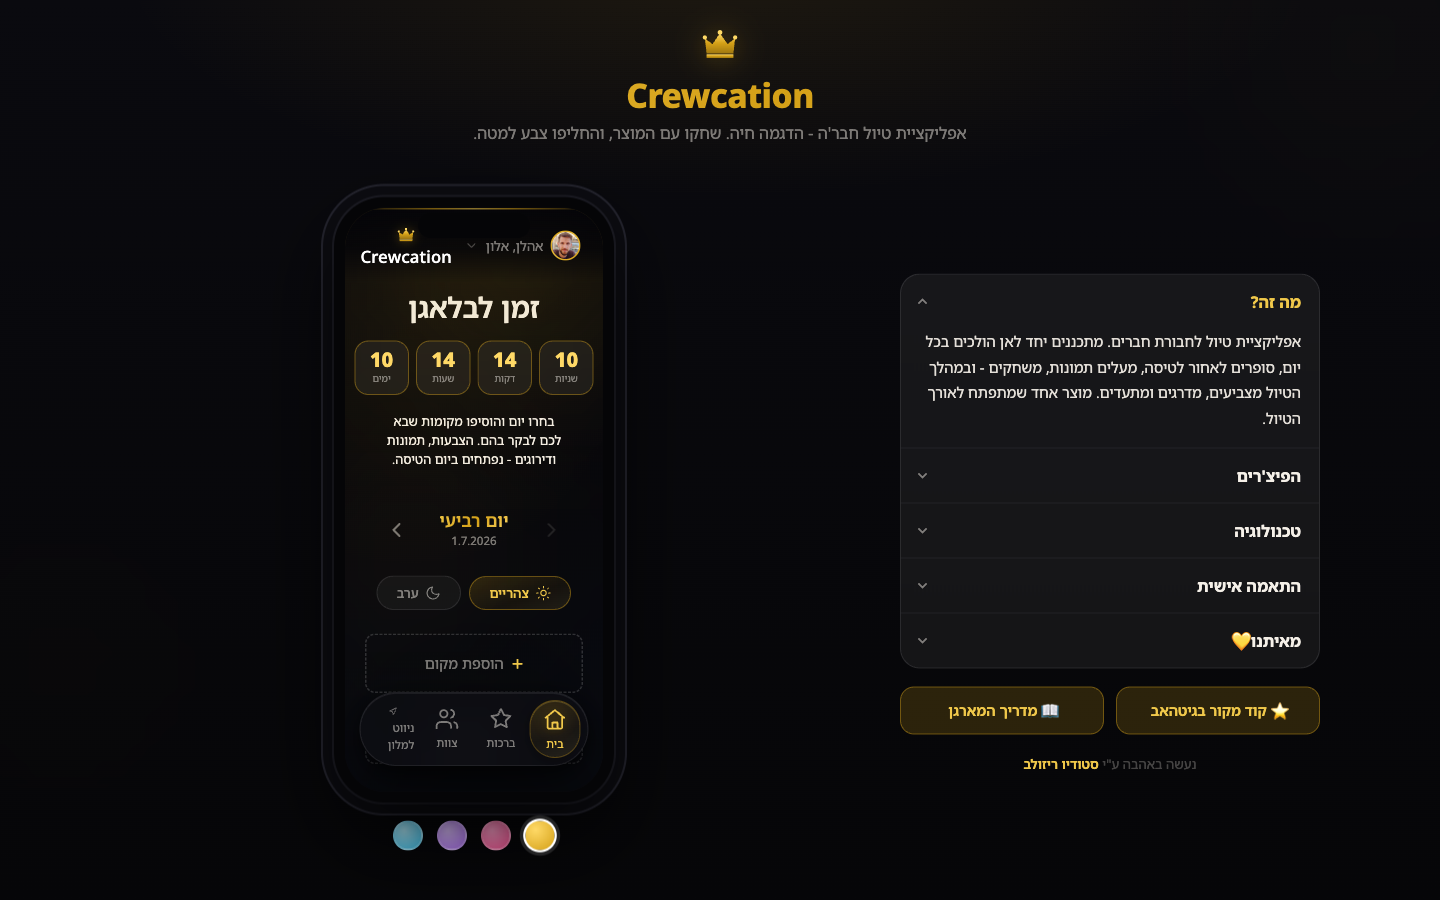
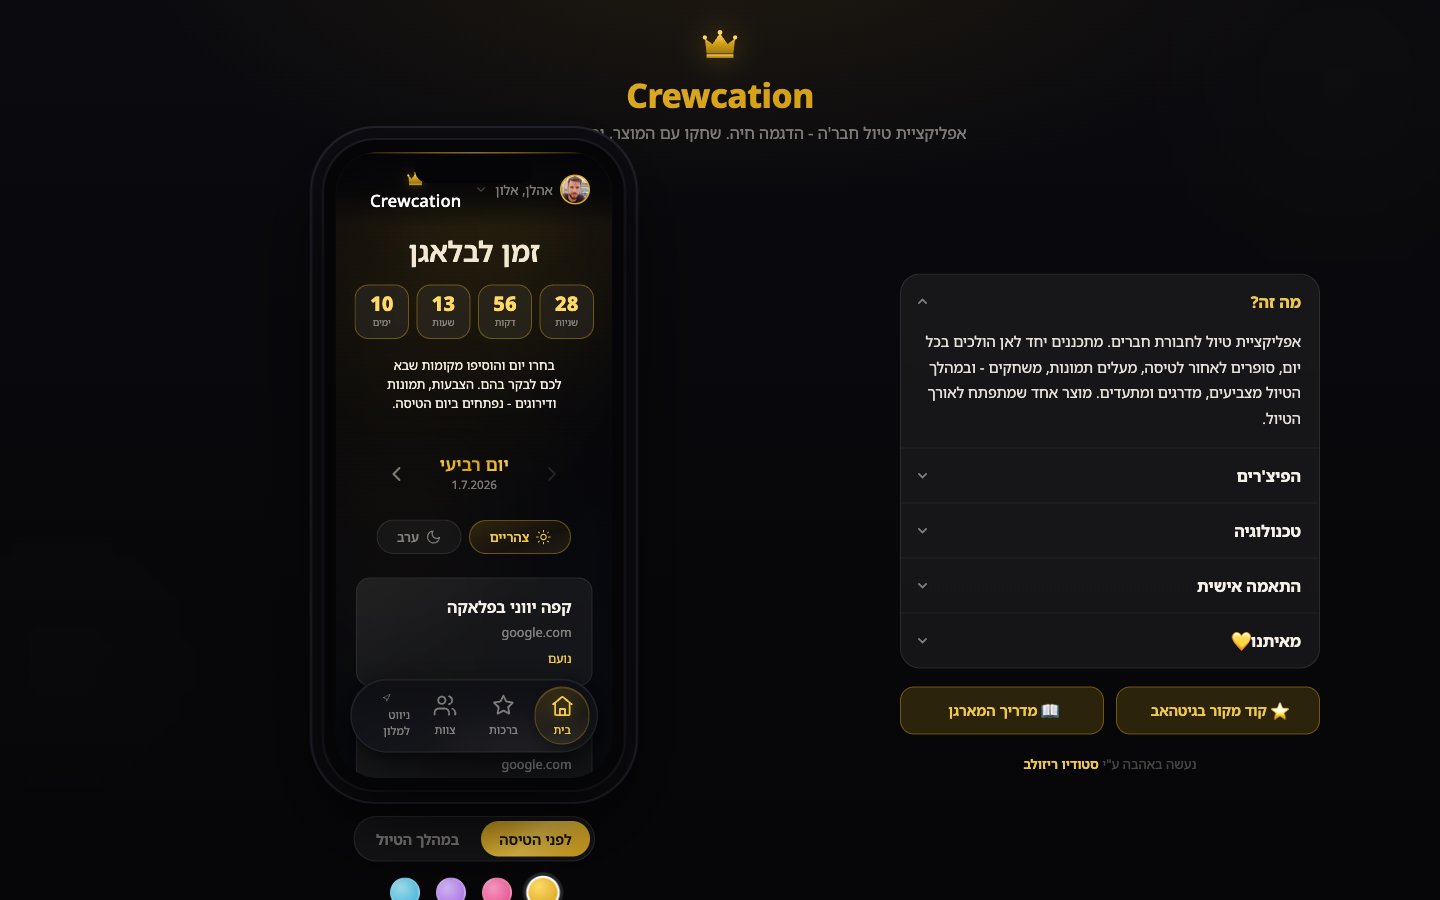
דמו: מתג לפני/במהלך הטיול + חסימת פעולות עם מודל + טלפון רחב
- מתג שלב בעמוד הדמו: "לפני הטיסה" (איסוף) / "במהלך הטיול" (הצבעות+גלריה+
  דירוגים פתוחים) - דרך demo_sim_day() ב-?phase, נשמר בסשן וחל על כל העמודים
- demo_guard.php: כל פעולת כתיבה בדמו מקפיצה מודל "אני רק דמו, אל תגזימו" (חוץ
  ממשחקים ששקטים). מיירט fetch POST ל-api
- demo_seed(): מקומות + תמונות גלריה לדמו שמצב "במהלך" ייראה חי
- טלפון רחב יותר (גובה דינמי), מרווח לנקודות, מתג שלב מתחת לדמו
- תיקון schema: ratings עם param + UNIQUE נכון (תיקן 500 ב-rate.php)

diff --git a/assets/style.css b/assets/style.css
@@ -106,6 +106,20 @@
 .theme-dot.t-purple { background: radial-gradient(circle at 35% 30%, #D9BBFA, #A76CE9); }
 .theme-dot.t-sky    { background: radial-gradient(circle at 35% 30%, #A6E2F2, #38B6DE); }
 
+/* מודל "אני רק דמו" */
+.demo-modal { position: fixed; inset: 0; z-index: 1000; display: none; align-items: center; justify-content: center;
+    background: rgba(4,4,8,0.72); backdrop-filter: blur(6px); padding: 24px; }
+.demo-modal.show { display: flex; animation: dm-fade .18s ease; }
+@keyframes dm-fade { from { opacity: 0; } to { opacity: 1; } }
+.demo-modal-card { background: var(--bg-elevated); border: 1px solid var(--border-gold); border-radius: var(--radius-xl);
+    padding: 26px 24px; max-width: 320px; text-align: center; box-shadow: var(--glow-gold); animation: dm-pop .22s cubic-bezier(.2,.8,.2,1); }
+@keyframes dm-pop { from { transform: scale(.9); opacity: 0; } to { transform: scale(1); opacity: 1; } }
+.demo-modal-card .dm-emoji { font-size: 2.4rem; }
+.demo-modal-card .dm-title { font-size: 1.25rem; font-weight: 800; margin: 8px 0 6px; color: var(--gold-light); }
+.demo-modal-card .dm-sub { font-size: .92rem; color: var(--text); opacity: .85; line-height: 1.6; margin: 0 0 18px; }
+.demo-modal-card .dm-btn { background: var(--grad-gold); color: #1a1505; border: 0; border-radius: var(--radius-pill);
+    padding: 11px 30px; font-weight: 700; font-size: .95rem; cursor: pointer; font-family: inherit; }
+
 /* מצב דמו: מסתירים כפתורי העלאת תמונות (חסום גם בשרת) */
 body.is-demo #hypeAdd,
 body.is-demo [id^="gal-add-"],

diff --git a/demo_showcase.php b/demo_showcase.php
@@ -36,20 +36,25 @@ declare(strict_types=1);
             flex: 1; min-height: 0; display: grid; grid-template-columns: minmax(300px, 420px) 1fr;
             gap: clamp(28px, 5vw, 72px); align-items: center; max-width: 1200px; width: 100%; margin: 0 auto;
         }
-        .pg-stage { display: flex; flex-direction: column; align-items: center; gap: 18px; min-height: 0; height: 100%; justify-content: center; }
+        .pg-stage { display: flex; flex-direction: column; align-items: center; gap: 26px; min-height: 0; height: 100%; justify-content: center; }
 
         /* מוקאפ טלפון - רחב ככל שמתאפשר בגובה הזמין */
         .phone {
-            height: min(86%, 760px); aspect-ratio: 390 / 844; position: relative;
-            background: #050507; border-radius: 50px; padding: 11px;
-            box-shadow: 0 36px 80px rgba(0,0,0,.7), 0 0 0 2px #1c1c24, 0 0 0 11px #0c0c11, 0 0 0 13px #24242e;
+            height: min(880px, calc(100vh - 250px)); aspect-ratio: 390 / 844; position: relative;
+            background: #050507; border-radius: 52px; padding: 12px;
+            box-shadow: 0 36px 80px rgba(0,0,0,.7), 0 0 0 2px #1c1c24, 0 0 0 12px #0c0c11, 0 0 0 14px #24242e;
         }
-        .phone::before { content: ''; position: absolute; top: 16px; left: 50%; transform: translateX(-50%);
-            width: 112px; height: 25px; background: #050507; border-radius: 16px; z-index: 3; }
-        .phone iframe { width: 100%; height: 100%; border: 0; border-radius: 40px; background: #06060a; display: block; }
+        .phone::before { content: ''; position: absolute; top: 17px; left: 50%; transform: translateX(-50%);
+            width: 118px; height: 26px; background: #050507; border-radius: 16px; z-index: 3; }
+        .phone iframe { width: 100%; height: 100%; border: 0; border-radius: 42px; background: #06060a; display: block; }
 
-        /* נקודות הצבע - מתחת לדמו */
-        .swatches { display: flex; gap: 14px; }
+        /* בקרות מתחת לדמו */
+        .stage-controls { display: flex; flex-direction: column; align-items: center; gap: 16px; }
+        .phase-toggle { display: inline-flex; background: var(--card); border: 1px solid var(--border); border-radius: var(--radius-pill); padding: 4px; gap: 4px; }
+        .phase-btn { border: 0; background: transparent; color: var(--text-muted); font-family: inherit; font-weight: 600;
+            font-size: .9rem; padding: 8px 18px; border-radius: var(--radius-pill); cursor: pointer; transition: all .15s; white-space: nowrap; }
+        .phase-btn.active { background: var(--grad-gold); color: #1a1505; }
+        .swatches { display: flex; gap: 16px; }
 
         /* פאנל - בשפת המוצר */
         .pg-panel { display: flex; flex-direction: column; gap: 18px; }
@@ -143,13 +148,19 @@ declare(strict_types=1);
 
             <div class="pg-stage">
                 <div class="phone">
-                    <iframe id="appFrame" src="app.php" title="<?= htmlspecialchars(APP_NAME) ?>"></iframe>
+                    <iframe id="appFrame" src="app.php?phase=before" title="<?= htmlspecialchars(APP_NAME) ?>"></iframe>
                 </div>
-                <div class="swatches" id="themePicker">
-                    <button class="theme-dot t-gold active"   data-theme="gold"   aria-label="זהב"></button>
-                    <button class="theme-dot t-pink"          data-theme="pink"   aria-label="ורוד"></button>
-                    <button class="theme-dot t-purple"        data-theme="purple" aria-label="סגול"></button>
-                    <button class="theme-dot t-sky"           data-theme="sky"    aria-label="תכלת"></button>
+                <div class="stage-controls">
+                    <div class="phase-toggle" id="phaseToggle">
+                        <button class="phase-btn active" data-phase="before" type="button">לפני הטיסה</button>
+                        <button class="phase-btn" data-phase="during" type="button">במהלך הטיול</button>
+                    </div>
+                    <div class="swatches" id="themePicker">
+                        <button class="theme-dot t-gold active"   data-theme="gold"   aria-label="זהב"></button>
+                        <button class="theme-dot t-pink"          data-theme="pink"   aria-label="ורוד"></button>
+                        <button class="theme-dot t-purple"        data-theme="purple" aria-label="סגול"></button>
+                        <button class="theme-dot t-sky"           data-theme="sky"    aria-label="תכלת"></button>
+                    </div>
                 </div>
             </div>
         </div>
@@ -188,6 +199,15 @@ declare(strict_types=1);
             paintFrame(localStorage.getItem('cw-theme') || 'gold');
         });
         pick.addEventListener('click', function (e) { var d = e.target.closest('.theme-dot'); if (d) apply(d.dataset.theme); });
+
+        // מתג שלב: לפני הטיסה / במהלך הטיול - טוען מחדש את האייפריים
+        var toggle = document.getElementById('phaseToggle');
+        toggle.addEventListener('click', function (e) {
+            var b = e.target.closest('.phase-btn');
+            if (!b) return;
+            toggle.querySelectorAll('.phase-btn').forEach(function (x) { x.classList.toggle('active', x === b); });
+            frame.src = 'app.php?phase=' + b.dataset.phase;
+        });
 
         // אקורדיון בלעדי - פתיחת אחד סוגרת את השאר (גיבוי ל-name)
         var accs = document.querySelectorAll('.panel-card details');

diff --git a/auth.php b/auth.php
@@ -27,6 +27,42 @@ function uploads_blocked(): bool {
     return demo_mode();
 }
 
+// בדמו: מתג שלב (לפני הטיסה / במהלך הטיול) דרך ?phase או ?simday, נשמר בסשן.
+// מחזיר את "יום הטיול" המדומה: 0 = לפני, 3 = במהלך. null אם לא בדמו.
+function demo_sim_day(): ?int {
+    if (!demo_mode()) return null;
+    if (isset($_GET['phase'])) {
+        $_SESSION['demo_phase'] = ($_GET['phase'] === 'during') ? 'during' : 'before';
+    } elseif (isset($_GET['simday'])) {
+        $_SESSION['demo_phase'] = ((int)$_GET['simday'] > 0) ? 'during' : 'before';
+    }
+    return (($_SESSION['demo_phase'] ?? 'before') === 'during') ? 3 : 0;
+}
+
+// זריעת דאטה להדגמה (מקומות + תמונות גלריה) כדי שמצב "במהלך הטיול" ייראה חי. רץ פעם אחת.
+function demo_seed(PDO $db): void {
+    if (!demo_mode()) return;
+    $users = array_keys(USERS);
+    if ((int)$db->query("SELECT COUNT(*) FROM places")->fetchColumn() === 0) {
+        $samples = [
+            [1,'lunch','קפה יווני בפלאקה'], [1,'lunch','שוק האוכל המרכזי'],
+            [1,'dinner','מסעדת גריל בגג'],  [1,'dinner','בר יין ליד הים'],
+            [2,'lunch','חוף ושנירקול'],      [2,'lunch','פיתה גירוס אגדית'],
+            [2,'dinner','טברנה מקומית'],     [2,'dinner','מועדון על הגג'],
+            [3,'lunch','בריכת המלון'],       [3,'lunch','סושי טוב'],
+            [3,'dinner','סטייקייה'],         [3,'dinner','מסיבת חוף'],
+        ];
+        $ins = $db->prepare("INSERT INTO places (day,meal,name,description,url,added_by) VALUES (?,?,?,'','https://www.google.com/maps',?)");
+        foreach ($samples as $i => $s) $ins->execute([$s[0], $s[1], $s[2], $users[$i % count($users)]]);
+    }
+    if ((int)$db->query("SELECT COUNT(*) FROM uploads")->fetchColumn() === 0) {
+        $ins = $db->prepare("INSERT INTO uploads (day,user_id,filename,type) VALUES (3,?,?,'image')");
+        foreach (['gal1.jpg','gal2.jpg','gal3.jpg','gal4.jpg'] as $i => $f) {
+            if (file_exists(UPLOAD_PATH . $f)) $ins->execute([$users[$i % count($users)], $f]);
+        }
+    }
+}
+
 function require_login(): string {
     session_start_safe();
     $uid = $_SESSION['user_id'] ?? '';
@@ -92,6 +128,7 @@ function get_db(): PDO {
         $db->exec("PRAGMA journal_mode=WAL;");
         $db->exec("PRAGMA foreign_keys=ON;");
         ensure_schema($db);
+        demo_seed($db);
     }
     return $db;
 }
@@ -120,9 +157,9 @@ function ensure_schema(PDO $db): void {
     )");
     $db->exec("CREATE TABLE IF NOT EXISTS ratings (
         id INTEGER PRIMARY KEY AUTOINCREMENT, day INTEGER NOT NULL,
-        rater_id TEXT NOT NULL, ratee_id TEXT NOT NULL,
+        rater_id TEXT NOT NULL, ratee_id TEXT NOT NULL, param TEXT NOT NULL,
         stars INTEGER NOT NULL CHECK(stars BETWEEN 1 AND 5),
-        created_at DATETIME DEFAULT CURRENT_TIMESTAMP, UNIQUE(day, rater_id, ratee_id)
+        created_at DATETIME DEFAULT CURRENT_TIMESTAMP, UNIQUE(day, rater_id, ratee_id, param)
     )");
     $db->exec("CREATE TABLE IF NOT EXISTS suggestions (
         id INTEGER PRIMARY KEY AUTOINCREMENT, user_id TEXT NOT NULL,

diff --git a/demo_guard.php b/demo_guard.php
@@ -1,0 +1,28 @@
+<?php if (function_exists('demo_mode') && demo_mode()): ?>
+<div id="demoModal" class="demo-modal" onclick="this.classList.remove('show')">
+    <div class="demo-modal-card" onclick="event.stopPropagation()">
+        <div class="dm-emoji">🙂</div>
+        <p class="dm-title">אני רק דמו</p>
+        <p class="dm-sub">אל תגזימו :) זו הדגמה - פעולות שמירה כבויות. שחקו, דפדפו, ותהנו מהמוצר!</p>
+        <button class="dm-btn" type="button" onclick="document.getElementById('demoModal').classList.remove('show')">הבנתי</button>
+    </div>
+</div>
+<script>
+(function () {
+    // פעולות "שקטות" (לא מקפיצות מודל) - משחקים/לוגים
+    var SILENT = ['score.php', 'game_play.php', 'nav_log.php'];
+    var _fetch = window.fetch;
+    window.fetch = function (url, opts) {
+        opts = opts || {};
+        var m = (opts.method || 'GET').toUpperCase();
+        var u = String(url);
+        if (m === 'POST' && u.indexOf('api/') !== -1) {
+            var silent = SILENT.some(function (s) { return u.indexOf(s) !== -1; });
+            if (!silent) { var el = document.getElementById('demoModal'); if (el) el.classList.add('show'); }
+            return Promise.resolve(new Response(JSON.stringify({ ok: silent }), { status: 200, headers: { 'Content-Type': 'application/json' } }));
+        }
+        return _fetch.apply(this, arguments);
+    };
+})();
+</script>
+<?php endif; ?>

diff --git a/app.php b/app.php
@@ -29,6 +29,8 @@ if ($tripDayNow < 0) $tripDayNow = 0;
 // ?simday=N מדמה יום אחר (למשל simday=1 = בוקר השחרור)
 if (is_dev_env()) {
     $tripDayNow = isset($_GET['simday']) ? max(0, min(5, (int)$_GET['simday'])) : 3;
+} elseif (($dsd = demo_sim_day()) !== null) {
+    $tripDayNow = $dsd; // דמו: 0 = לפני הטיסה, 3 = במהלך הטיול
 }
 // מצב איסוף: לפני הטיול - ממלאים מקומות, בלי הצבעה ובלי נעילות עבר/עתיד.
 $collectionMode = collection_mode($tripDayNow);
@@ -1854,5 +1856,6 @@ if ('serviceWorker' in navigator) {
 if (window.caches) { caches.keys().then(ks => ks.forEach(k => caches.delete(k))); }
 </script>
 <script src="assets/profile.js?v=<?= filemtime(__DIR__ . '/assets/profile.js') ?>"></script>
+<?php include __DIR__ . '/demo_guard.php'; ?>
 </body>
 </html>

diff --git a/blessings.php b/blessings.php
@@ -6,7 +6,7 @@ require_once __DIR__ . '/icons.php';
 
 $user_id = require_login();
 $locked  = app_locked();
-$_ts=mktime(0,0,0,7,1,2026); $_td=(int)floor((time()-$_ts)/86400)+1; if($_td<0)$_td=0; if(is_dev_env()) $_td=isset($_GET['simday'])?max(0,min(5,(int)$_GET['simday'])):3; $featureLocked=collection_mode($_td);
+$_ts=mktime(0,0,0,7,1,2026); $_td=(int)floor((time()-$_ts)/86400)+1; if($_td<0)$_td=0; if(is_dev_env()) $_td=isset($_GET['simday'])?max(0,min(5,(int)$_GET['simday'])):3; elseif(($_dsd=demo_sim_day())!==null) $_td=$_dsd; $featureLocked=collection_mode($_td);
 $me      = get_user($user_id);
 $myFirst = explode(' ', $me['name'] ?? '')[0];
 $myPhoto = member_photo($user_id);
@@ -160,5 +160,6 @@ async function deleteBless(id){
 if (document.getElementById('blessWall')) loadWall();
 </script>
 <script src="assets/profile.js?v=<?= filemtime(__DIR__ . '/assets/profile.js') ?>"></script>
+<?php include __DIR__ . '/demo_guard.php'; ?>
 </body>
 </html>

diff --git a/navigate.php b/navigate.php
@@ -6,7 +6,7 @@ require_once __DIR__ . '/icons.php';
 
 $user_id = require_login();
 $locked  = app_locked();
-$_ts=mktime(0,0,0,7,1,2026); $_td=(int)floor((time()-$_ts)/86400)+1; if($_td<0)$_td=0; if(is_dev_env()) $_td=isset($_GET['simday'])?max(0,min(5,(int)$_GET['simday'])):3; $featureLocked=collection_mode($_td);
+$_ts=mktime(0,0,0,7,1,2026); $_td=(int)floor((time()-$_ts)/86400)+1; if($_td<0)$_td=0; if(is_dev_env()) $_td=isset($_GET['simday'])?max(0,min(5,(int)$_GET['simday'])):3; elseif(($_dsd=demo_sim_day())!==null) $_td=$_dsd; $featureLocked=collection_mode($_td);
 $me      = get_user($user_id);
 $myFirst = explode(' ', $me['name'] ?? '')[0];
 $myPhoto = member_photo($user_id);
@@ -167,5 +167,6 @@ document.querySelectorAll('.modal-sheet').forEach(sheet => {
 if (document.getElementById('navlogList')) loadNavLog();
 </script>
 <script src="assets/profile.js?v=<?= filemtime(__DIR__ . '/assets/profile.js') ?>"></script>
+<?php include __DIR__ . '/demo_guard.php'; ?>
 </body>
 </html>

diff --git a/games.php b/games.php
@@ -328,5 +328,6 @@ if (G === 'wheel') {
 }
 </script>
 <script src="assets/profile.js?v=<?= filemtime(__DIR__ . '/assets/profile.js') ?>"></script>
+<?php include __DIR__ . '/demo_guard.php'; ?>
 </body>
 </html>

diff --git a/header_photo_btn.php b/header_photo_btn.php
@@ -2,6 +2,7 @@
 // כפתור התמונה היומית בהאדר. לפני הטיול: עמום, "בקרוב", פותח מודל "סבלנות קצת".
 $_ts=mktime(0,0,0,7,1,2026); $_td=(int)floor((time()-$_ts)/86400)+1; if($_td<0)$_td=0;
 if (is_dev_env()) $_td = isset($_GET['simday']) ? max(0,min(5,(int)$_GET['simday'])) : 3;
+elseif (($_dsd = demo_sim_day()) !== null) $_td = $_dsd;
 $hp_locked = collection_mode($_td);
 if ($hp_locked): ?>
 <button class="hdr-photo hdr-photo-soon" onclick="openModal('soonModal')" aria-label="בקרוב">

diff --git a/member.php b/member.php
@@ -190,5 +190,6 @@ if (!empty($m['is_groom'])) {
 })();
 </script>
 <script src="assets/profile.js?v=<?= filemtime(__DIR__ . '/assets/profile.js') ?>"></script>
+<?php include __DIR__ . '/demo_guard.php'; ?>
 </body>
 </html>

diff --git a/members.php b/members.php
@@ -180,5 +180,6 @@ document.querySelectorAll('.modal-sheet').forEach(sheet => {
 </script>
 <script src="assets/profile.js?v=<?= filemtime(__DIR__ . '/assets/profile.js') ?>"></script>
 
+<?php include __DIR__ . '/demo_guard.php'; ?>
 </body>
 </html>